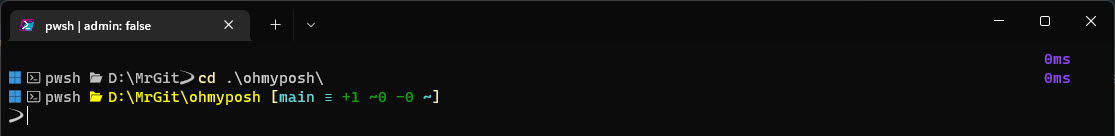
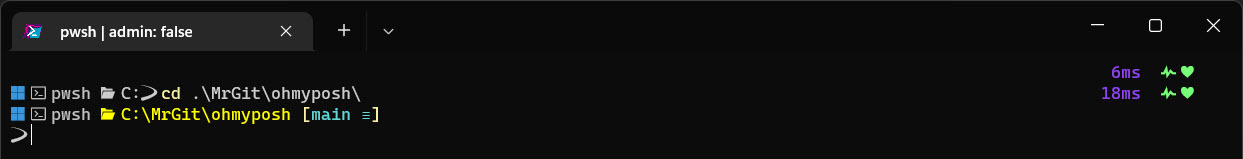
Added additional info to readme and updated theme image

diff --git a/README.md b/README.md
@@ -16,34 +16,50 @@ PowerShell 7 is not required, although it is recommended.
 
 ## Installation and configuration
 
-Install Oh My Posh:
+1. Install Oh My Posh:
 
-```powershell
-winget install JanDeDobbeleer.OhMyPosh
-```
+   ```powershell
+   winget install JanDeDobbeleer.OhMyPosh
+   ```
 
-Install the CaskaydiaCove (CascadiaCode) nerd font:
+1. Install the [CaskaydiaCove](https://github.com/ryanoasis/nerd-fonts/releases/) nerd font.
 
-```powershell
-oh-my-posh font install
-```
-
-Configure Windows Terminal to use the CaskaydiaCove font:
+1. Configure Windows Terminal to use the CaskaydiaCove font:
 
 ```json
-"font":
-{
-    "face": "CaskaydiaCove Nerd Font"
-}
-```
+   "font":
+   {
+       "face": "CaskaydiaCove Nerd Font"
+   }
+   ```
 
-Add the following to your PowerShell profile. The referenced theme can be found in the themes folder
+1. Add the following to your PowerShell profile. The referenced theme can be found in the themes folder
 of this repo.
 
+   ```powershell
+   oh-my-posh init pwsh --config "$env:POSH_THEMES_PATH\mikefrobbins.omp.yaml" | Invoke-Expression
+   $env:POSH_GIT_ENABLED = $true
+   ```
+
+## Additional notes
+
+Oh My Posh adds the following environment variables:
+
 ```powershell
-oh-my-posh init pwsh --config "$env:POSH_THEMES_PATH\mikefrobbins.omp.yaml" | Invoke-Expression
-$env:POSH_GIT_ENABLED = $true
+$env:POSH_GIT_ENABLED
+$env:POSH_THEME
+$env:POSH_THEMES_PATH
+$env:POWERLINE_COMMAND
 ```
+
+Determine the path to the Oh My Posh executable.
+
+```powershell
+(Get-Command -Name oh-my-posh.exe).Source
+```
+
+The Oh My Posh executable may need to be added to the exclusions of your antivirus software or
+Windows Defender if you're experiencing performance issues.
 
 ## Disclaimer
 
